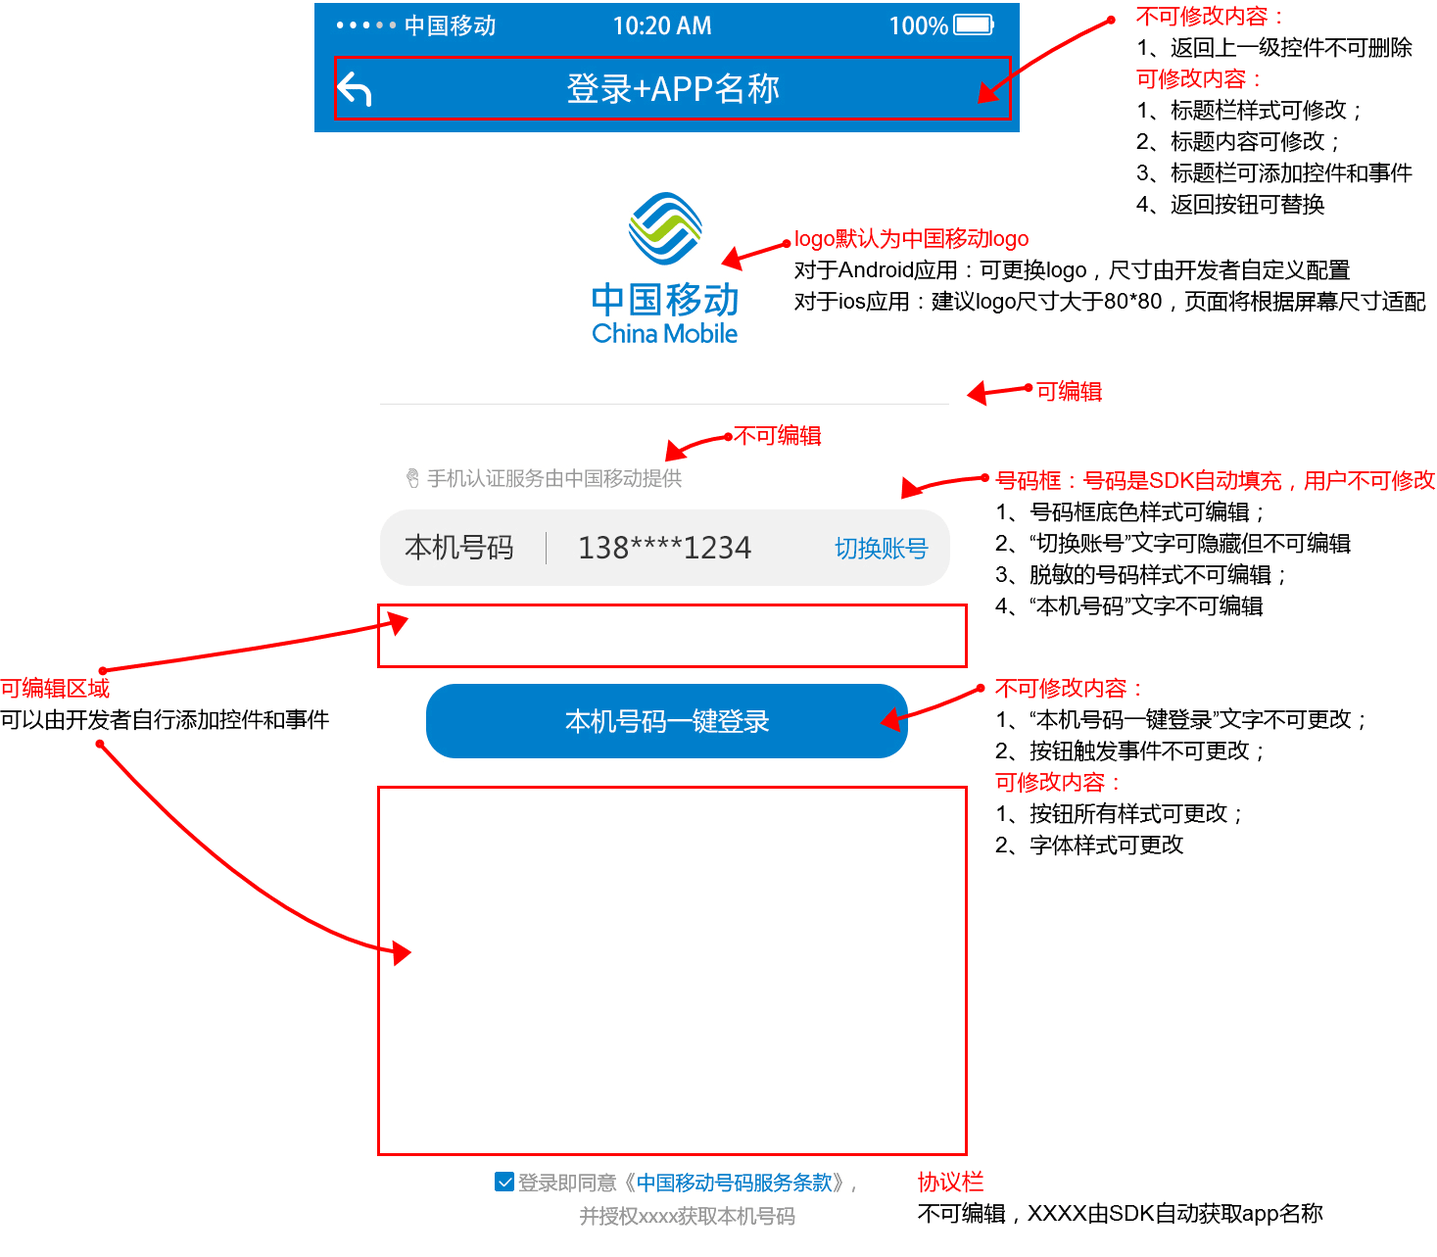
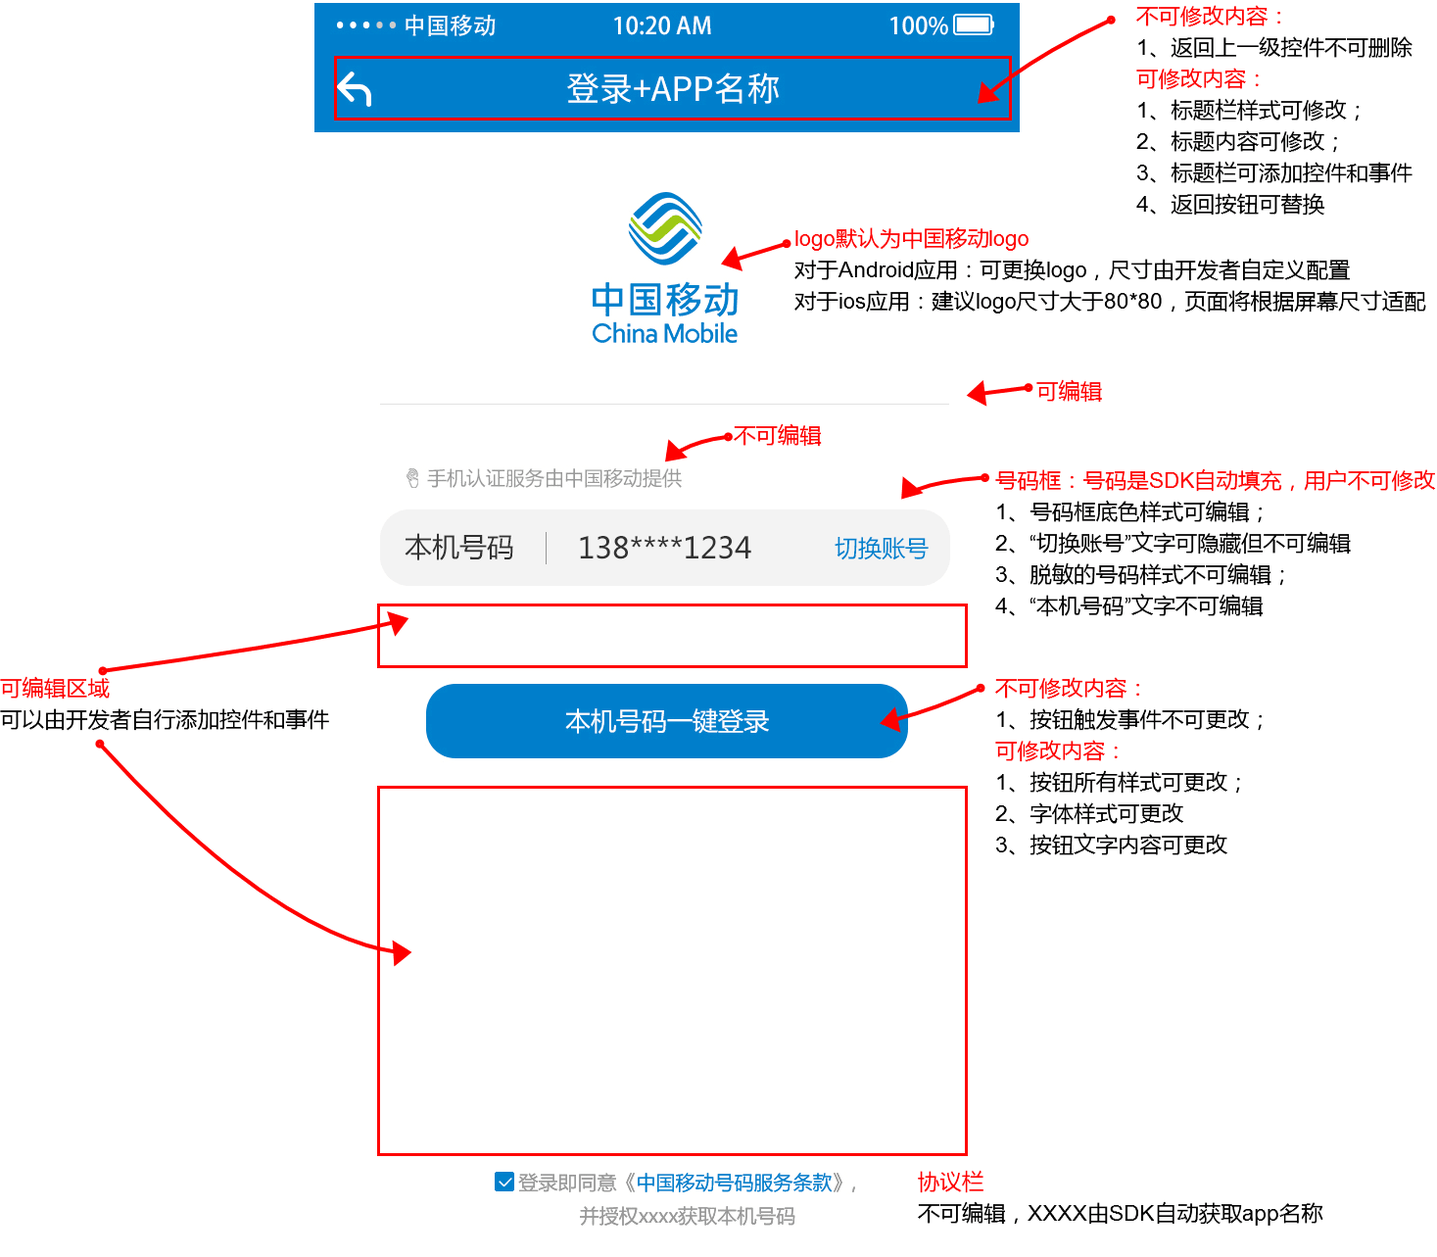
321

Changed region(s): [[0.6748, 0.5612, 0.9509, 0.6859]]

diff --git a/4. 一键登录-iOS.md b/4. 一键登录-iOS.md
@@ -1,4 +1,7 @@
+
+
 # 1. 开发环境配置 
+
 sdk技术问题沟通QQ群：609994083
 ## 1.1. 环境配置及发布
 
@@ -6,15 +9,13 @@ sdk技术问题沟通QQ群：609994083
 
 直接将统一认证`TYRZSDK.framework`拖到项目中
 
-2. 在Xcode中找到`TARGETS-->Build Setting-->Linking-->Other Linker Flags`在这选项中需要添加`-ObjC`
+1. 在Xcode中找到`TARGETS-->Build Setting-->Linking-->Other Linker Flags`在这选项中需要添加`-ObjC`
 
 
-3. TARGETS-->Build Setting-->搜索框中搜索"BitCode"选项,并且将该选项的属性设置为NO
+1. TARGETS-->Build Setting-->搜索框中搜索"BitCode"选项,并且将该选项的属性设置为NO
 
 
-4. 添加bundle资源包 TARGETS -->Build Phases -->Copy Bundle Resources --> 点击 "+" --> Add Other --> TYRZSDK.frameWork --> Resource.bundle -->Open 即可
-
-
+1. 添加bundle资源包 TARGETS -->Build Phases -->Copy Bundle Resources --> 点击 "+" --> Add Other --> TYRZSDK.frameWork --> Resource.bundle -->Open 即可
 
 </br>
 
@@ -432,22 +433,13 @@ SDK**登录授权页**和**短信验证码页面**部分元素可供开发者编
 | UAPageContentPhoneNumberBGColor      | UIColor      | 用户自定义号码输入区域底色                            | 是     | 2                        |      |
 | UAPageContentSMSCodeBGColor          | UIColor      | 用户自定义短验输入框底色                             | 是     | 2（如需自定义，必须嵌套在UASMSPage）  |      |
 | UAPageContentAccountSwitchHidden     | NSNumber     | 用户控制切换账号显示或隐藏，YES隐藏，NO显示                 | 是     | 2（如需自定义，必须嵌套在UAAuthPage） |      |
-<<<<<<< HEAD
 | UAPageContentLoginButtonBGColor      | UIColor      | 用户自定义登录按钮的底色                             | 是     | 2                        |      |
 | UAPageContentLoginButtonBGImage      | UIImage      | 用户自定义登录按钮背景图                             | 是     | 2                        |      |
 | UAPageContentLoginButtonCornerRadius | NSNumber     | 用户自定义登录按钮圆角（只针对按钮的高）                     | 是     | 2                        |      |
 | UAPageContentLoginButtonTitleFont    | UIFont       | 用户自定义登录按钮字体风格和大小                         | 是     | 2                        |      |
 | UAPageContentLoginButtonTitleColor   | UIColor      | 用户自定义登录按钮字体颜色                            | 是     | 2                        |      |
+| UAPageContentLoginButtonTitle        | NSString     | 用户自定义登录按钮文字（仅限授权页）                       | 是     | 2                        |      |
 | UAPageContentSeperatorHidden         | NSNumber     | 设置logo下面分割线是否隐藏，YES隐藏，NO显示               | 是     | 2                        |      |
-=======
-| UAPageContentLoginButtonBGColor      | UIColor      | 用户自定义登录按钮的底色                             | 是     | 2                          |      |
-| UAPageContentLoginButtonBGImage      | UIImage      | 用户自定义登录按钮背景图                             | 是     | 2                          |      |
-| UAPageContentLoginButtonCornerRadius | NSNumber     | 用户自定义登录按钮圆角（只针对按钮的高）                     | 是     | 2                          |      |
-| UAPageContentLoginButtonTitleFont    | UIFont       | 用户自定义登录按钮字体风格和大小                         | 是     | 2                          |      |
-| UAPageContentLoginButtonTitleColor   | UIColor      | 用户自定义登录按钮字体颜色                            | 是     | 2                          |      |
-| UAPageContentLoginButtonTitle | NSString | 用户自定义登录按钮文字（仅限授权页） | 是 | 2 |
-| UAPageContentSeperatorHidden         | NSNumber     | 设置logo下面分割线是否隐藏，YES隐藏，NO显示               | 是     | 2                          |      |
->>>>>>> c4dc0764dcea7f2ae823c4a3f1e9cef0164fc666
 
 
 **使用示例**
@@ -502,7 +494,11 @@ SDK**登录授权页**和**短信验证码页面**部分元素可供开发者编
 
 ## 3.1. 获取用户信息接口
 
-### 3.1.1. 接口说明
+### 3.1.1. 业务流程
+
+![](image/19.png)
+
+### 3.1.2. 接口说明
 
 **功能**
 
@@ -518,7 +514,7 @@ SDK**登录授权页**和**短信验证码页面**部分元素可供开发者编
 
 </br>
 
-### 3.1.2. 参数说明
+### 3.1.3. 参数说明
 
 **请求参数**
 
@@ -623,7 +619,24 @@ SDK**登录授权页**和**短信验证码页面**部分元素可供开发者编
 | sign          | String | 2     | 是                     | 签名，HMACSHA256( appId +     msgId + phonNum + timestamp + token + version)，输出64位大写字母 （注：“+”号为合并意思，不包含在被加密的字符串中,appkey为秘钥, 参数名做自然排序（Java是用TreeMap进行的自然排序）） |      |
 |               |        |       |                       |                                          |      |
 
+**响应参数**
+
+| 参数           | 层级    | 类型     | 约束   | 说明                                       |      |
+| ------------ | ----- | :----- | :--- | :--------------------------------------- | ---- |
+| **header**   | **1** |        | 必选   |                                          |      |
+| msgId        | 2     | string | 必选   | 对应的请求消息中的msgid                           |      |
+| timestamp    | 2     | string | 必选   | 响应消息发送的系统时间，精确到毫秒，共17位，格式：20121227180001165 |      |
+| appId        | 2     | string | 必选   | 应用ID                                     |      |
+| resultCode   | 2     | string | 必选   | 规则参见具体接口返回码说明                            |      |
+| **body**     | **1** |        | 必选   |                                          |      |
+| resultDesc   | 2     | String | 必选   | 返回结果描述信息：<br/>000:是本机号码<br/>001:非本机号码<br/>102:参数无效<br/>108:无效的手机号<br/>302:签名校验不通过<br/>606:token校验失败<br/>999:系统异常<br/>102315：使用次数为0<br/>其中，000和001状态纳入计费次数 |      |
+| message      | 2     | String | 否    | 接入方预留参数，该参数会透传给通知接口，此参数需urlencode编码      |      |
+| expandParams | 2     | String | 否    | 扩展参数格式：param1=value1\|param2=value2  方式传递，参数以竖线 \| 间隔方式传递，此参数需urlencode编码。 |      |
+|              |       |        |      |                                          |      |
+
 </br>
+
+### 3.2.4. 示例
 
 **请求示例**
 
@@ -648,21 +661,6 @@ SDK**登录授权页**和**短信验证码页面**部分元素可供开发者编
 ```
 
 
-
-**响应参数**
-
-| 参数           | 层级    | 类型     | 约束   | 说明                                       |      |
-| ------------ | ----- | :----- | :--- | :--------------------------------------- | ---- |
-| **header**   | **1** |        | 必选   |                                          |      |
-| msgId        | 2     | string | 必选   | 对应的请求消息中的msgid                           |      |
-| timestamp    | 2     | string | 必选   | 响应消息发送的系统时间，精确到毫秒，共17位，格式：20121227180001165 |      |
-| appId        | 2     | string | 必选   | 应用ID                                     |      |
-| resultCode   | 2     | string | 必选   | 规则参见具体接口返回码说明                            |      |
-| **body**     | **1** |        | 必选   |                                          |      |
-| resultDesc   | 2     | String | 必选   | 返回结果描述信息：<br/>000:是本机号码<br/>001:非本机号码<br/>102:参数无效<br/>108:无效的手机号<br/>302:签名校验不通过<br/>606:token校验失败<br/>999:系统异常<br/>102315：使用次数为0<br/>其中，000和001状态纳入计费次数 |      |
-| message      | 2     | String | 否    | 接入方预留参数，该参数会透传给通知接口，此参数需urlencode编码      |      |
-| expandParams | 2     | String | 否    | 扩展参数格式：param1=value1\|param2=value2  方式传递，参数以竖线 \| 间隔方式传递，此参数需urlencode编码。 |      |
-|              |       |        |      |                                          |      |
 
 **响应示例**
 
@@ -726,123 +724,125 @@ SDK**登录授权页**和**短信验证码页面**部分元素可供开发者编
 
 ## 4.2. 获取用户信息接口返回码
 
-| 返回码    | 返回码描述                           |
-| ------ | ------------------------------- |
-| 103000 | 成功                              |
-| 103101 | 签名错误                            |
-| 103103 | 用户不存在                           |
-| 103104 | 用户不支持这种登录方式                     |
-| 103105 | 密码错误                            |
-| 103106 | 用户名错误                           |
-| 103107 | 已存在相同的随机数                       |
-| 103108 | 短信验证码错误                         |
-| 103109 | 短信验证码超时                         |
-| 103111 | wap  网关IP错误                     |
-| 103112 | 错误的请求                           |
-| 103113 | Token内容错误                       |
-| 103114 | token验证  KS过期                   |
-| 103115 | token验证  KS不存在                  |
-| 103116 | token验证  sqn错误                  |
-| 103117 | mac异常                           |
-| 103118 | sourceid不存在                     |
-| 103119 | appid不存在                        |
-| 103120 | clientauth不存在                   |
-| 103121 | passid不存在                       |
-| 103122 | btid不存在                         |
-| 103123 | redisinfo不存在                    |
-| 103124 | ksnaf校验不一致                      |
-| 103125 | 手机号格式错误                         |
-| 103127 | 证书验证：版本过期                       |
-| 103128 | gba:webservice  error           |
-| 103129 | 获取短信验证码的msgtype异常               |
-| 103130 | 新密码不能与当前密码相同                    |
-| 103131 | 密码过于简单                          |
-| 103132 | 用户注册失败                          |
-| 103133 | sourceid不合法                     |
-| 103134 | wap方式手机号码为空                     |
-| 103135 | 昵称非法                            |
-| 103136 | 邮箱非法                            |
-| 103138 | appid已存在                        |
-| 103139 | sourceid已存在                     |
-| 103200 | 不需要更新ks错误                       |
-| 103202 | 缓存用户不存在或者验证短信输入失败次数过多           |
-| 103203 | 缓存用户不存在                         |
-| 103204 | 缓存随机数不存                         |
-| 103205 | 服务器异常                           |
-| 103207 | 发送短信失败                          |
-| 103210 | 修改密码失败                          |
-| 103211 | 其他错误                            |
-| 103212 | 校验密码失败                          |
-| 103213 | 旧密码失败                           |
-| 103214 | 访问缓存或数据库错误                      |
-| 103226 | sqn过小或过大                        |
-| 103265 | 用户已存在                           |
-| 103270 | 随机校验凭证过期                        |
-| 103271 | 随机校验凭证错误                        |
-| 103272 | 随机校验凭证不存在                       |
-| 103303 | sip  用户未开户（获取应用密码）              |
-| 103304 | sip  用户未开户（注销用户）                |
-| 103305 | sip  开户用户名错误                    |
-| 103306 | sip  用户名不能为空（获取应用密码）            |
-| 103307 | sip  用户名不能为空（注销用户）              |
-| 103308 | sip  手机号不合法                     |
-| 103309 | sip  opertype 为空                |
-| 103310 | sip  sourceid 不存在               |
-| 103311 | sip  sourceid 不合法               |
-| 103312 | sip  btid 不存在                   |
-| 103313 | sip  ks 不存在                     |
-| 103314 | sip密码变更失败                       |
-| 103315 | sip密码推送失败                       |
-| 103399 | sip  sys错误                      |
-| 103400 | authorization  为空               |
-| 103401 | 签名消息为空                          |
-| 103402 | 无效的  authWay                    |
-| 103404 | 加密失败                            |
-| 103405 | 保存数据短信手机号为空                     |
-| 103406 | 保存数据短信短信内容为空                    |
-| 103407 | 此sourceId,  appPackage, sign已注册 |
-| 103408 | 此sourceId注册已达上限   99次           |
-| 103409 | query  为空                       |
-| 103412 | 无效的请求                           |
-| 103413 | 系统异常                            |
-| 103414 | 参数效验异常                          |
-| 103505 | 重放攻击                            |
-| 103511 | 源IP不合法                          |
-| 103810 | 校验失败，接口token版本不一致               |
-| 103811 | token为空                         |
-| 103899 | aoi  token 其他错误                 |
-| 103901 | 短信验证码下发次数已达上限                   |
-| 103902 | 凭证校验失败                          |
-| 103903 | 调用webservice错误                  |
-| 103904 | 配置不存在                           |
-| 103905 | 获取手机号码错误                        |
-| 103906 | 平台迁移访问错误  - （访问旧地址）             |
-| 103911 | 请求过于频繁                          |
-| 103920 | 没有存在的版本更新                       |
-| 103921 | 下载时间戳超时                         |
-| 103922 | 自动升级文件没找到                       |
-| 104001 | APPID和APPKEY已存在                 |
-| 104201 | 凭证已失效或不存在                       |
-| 104202 | 短信验证失败过多                        |
-| 105001 | 联通网关取号失败                        |
-| 105002 | 移动网关取号失败                        |
-| 105003 | 电信网关取号失败                        |
-| 105004 | 短信上行ip检测不合法                     |
-| 105005 | 短信上行发送信息为空                      |
-| 105006 | 手机号码为空                          |
-| 105007 | 手机号码格式错误                        |
-| 105008 | 短信内容为空                          |
-| 105009 | 解析失败                            |
-| 105010 | phonescript失效或者非法               |
-| 105011 | getPhonescript参数加密的私钥失效或者非法     |
-| 105012 | 不支持电信取号                         |
-| 105013 | 不支持联通取号                         |
-| 105014 | 校验本机号码失败                        |
-| 105015 | 校验有数三要素失败                       |
-| 105018 | 用户权限不够                          |
-| 105019 | 应用未授权                           |
-
-</br>
+| 返回码    | 返回码描述                          |
+| ------ | ------------------------------ |
+| 103000 | 返回成功                           |
+| 103101 | 签名错误                           |
+| 103103 | 用户不存在                          |
+| 103104 | 用户不支持这种登录方式                    |
+| 103105 | 密码错误                           |
+| 103106 | 用户名错误                          |
+| 103107 | 已存在相同的随机数                      |
+| 103108 | 短信验证码错误                        |
+| 103109 | 短信验证码超时                        |
+| 103111 | wap 网关IP错误                     |
+| 103112 | 错误的请求                          |
+| 103113 | Token内容错误                      |
+| 103114 | token验证 KS过期                   |
+| 103115 | token验证 KS不存在                  |
+| 103116 | token验证 sqn错误                  |
+| 103117 | mac异常                          |
+| 103118 | sourceid不存在                    |
+| 103119 | appid不存在                       |
+| 103120 | clientauth不存在                  |
+| 103121 | passid不存在                      |
+| 103122 | btid不存在                        |
+| 103123 | redisinfo不存在                   |
+| 103124 | ksnaf校验不一致                     |
+| 103125 | 手机号格式错误                        |
+| 103127 | 证书验证：版本过期                      |
+| 103128 | gba:webservice error           |
+| 103129 | 获取短信验证码的msgtype异常              |
+| 103130 | 新密码不能与当前密码相同                   |
+| 103131 | 密码过于简单                         |
+| 103132 | 用户注册失败                         |
+| 103133 | sourceid不合法                    |
+| 103134 | wap方式手机号码为空                    |
+| 103135 | 昵称非法                           |
+| 103136 | 邮箱非法                           |
+| 103138 | appid已存在                       |
+| 103139 | sourceid已存在                    |
+| 103200 | 不需要更新ks错误                      |
+| 103202 | 缓存用户不存在或者验证短信输入失败次数过多          |
+| 103203 | 缓存用户不存在                        |
+| 103204 | 缓存随机数不存                        |
+| 103205 | 服务器异常                          |
+| 103207 | 发送短信失败                         |
+| 103210 | 修改密码失败                         |
+| 103211 | 其他错误                           |
+| 103212 | 校验密码失败                         |
+| 103213 | 旧密码失败                          |
+| 103214 | 访问缓存或数据库错误                     |
+| 103226 | sqn过小或过大                       |
+| 103265 | 用户已存在                          |
+| 103270 | 随机校验凭证过期                       |
+| 103271 | 随机校验凭证错误                       |
+| 103272 | 随机校验凭证不存在                      |
+| 103000 | 通用SUCCESS                      |
+| 103901 | 短信验证码下发次数已达上限                  |
+| 103303 | sip 用户未开户（获取应用密码）              |
+| 103304 | sip 用户未开户（注销用户）                |
+| 103305 | sip 开户用户名错误                    |
+| 103306 | sip 用户名不能为空（获取应用密码）            |
+| 103307 | sip 用户名不能为空（注销用户）              |
+| 103308 | sip 手机号不合法                     |
+| 103309 | sip opertype 为空                |
+| 103310 | sip sourceid 不存在               |
+| 103311 | sip sourceid 不合法               |
+| 103312 | sip btid 不存在                   |
+| 103313 | sip ks 不存在                     |
+| 103314 | sip密码变更失败                      |
+| 103315 | sip密码推送失败                      |
+| 103399 | sip sys错误                      |
+| 103400 | authorization 为空               |
+| 103401 | 签名消息为空                         |
+| 103402 | 无效的 authWay                    |
+| 103404 | 加密失败                           |
+| 103405 | 保存数据短信手机号为空                    |
+| 103406 | 保存数据短信短信内容为空                   |
+| 103407 | 此sourceId, appPackage, sign已注册 |
+| 103408 | 此sourceId注册已达上限  99次           |
+| 103409 | query 为空                       |
+| 103412 | 无效的请求                          |
+| 103414 | 参数效验异常                         |
+| 103505 | 重放攻击                           |
+| 103511 | 源IP不合法                         |
+| 103810 | 校验失败，接口token版本不一致              |
+| 103811 | token为空                        |
+| 103899 | aoi token 其他错误                 |
+| 103901 | 短信验证码下发次数已达上限                  |
+| 103902 | 凭证校验失败                         |
+| 103903 | 调用webservice错误                 |
+| 103904 | 配置不存在                          |
+| 103905 | 获取手机号码错误                       |
+| 103906 | 平台迁移访问错误 - （访问旧地址）             |
+| 103911 | 请求过于频繁                         |
+| 103920 | 没有存在的版本更新                      |
+| 103921 | 下载时间戳超时                        |
+| 103922 | 自动升级文件没找到                      |
+| 104001 | APPID和APPKEY已存在                |
+| 104201 | 凭证已失效或不存在                      |
+| 104202 | 短信验证失败过多                       |
+| 103412 | 无效的请求                          |
+| 103413 | 系统异常                           |
+| 103810 | 非新版本token，不予与校验                |
+| 105001 | 联通网关取号失败                       |
+| 105002 | 移动网关取号失败                       |
+| 105003 | 电信网关取号失败                       |
+| 105004 | 短信上行ip检测不合法                    |
+| 105005 | 短信上行发送信息为空                     |
+| 105006 | 手机号码为空                         |
+| 105007 | 手机号码格式错误                       |
+| 105008 | 短信内容为空                         |
+| 105009 | 解析失败                           |
+| 105010 | phonescript失效或者非法              |
+| 105011 | getPhonescript参数加密的私钥失效或者非法    |
+| 105012 | 不支持电信取号                        |
+| 105013 | 不支持联通取号                        |
+| 105014 | 校验本机号码失败                       |
+| 105015 | 校验有数三要素失败                      |
+| 105018 | 用户权限不够                         |
+| 105019 | 应用未授权                          |
 
 ## 4.3. 本机号码校验接口返回码
 
